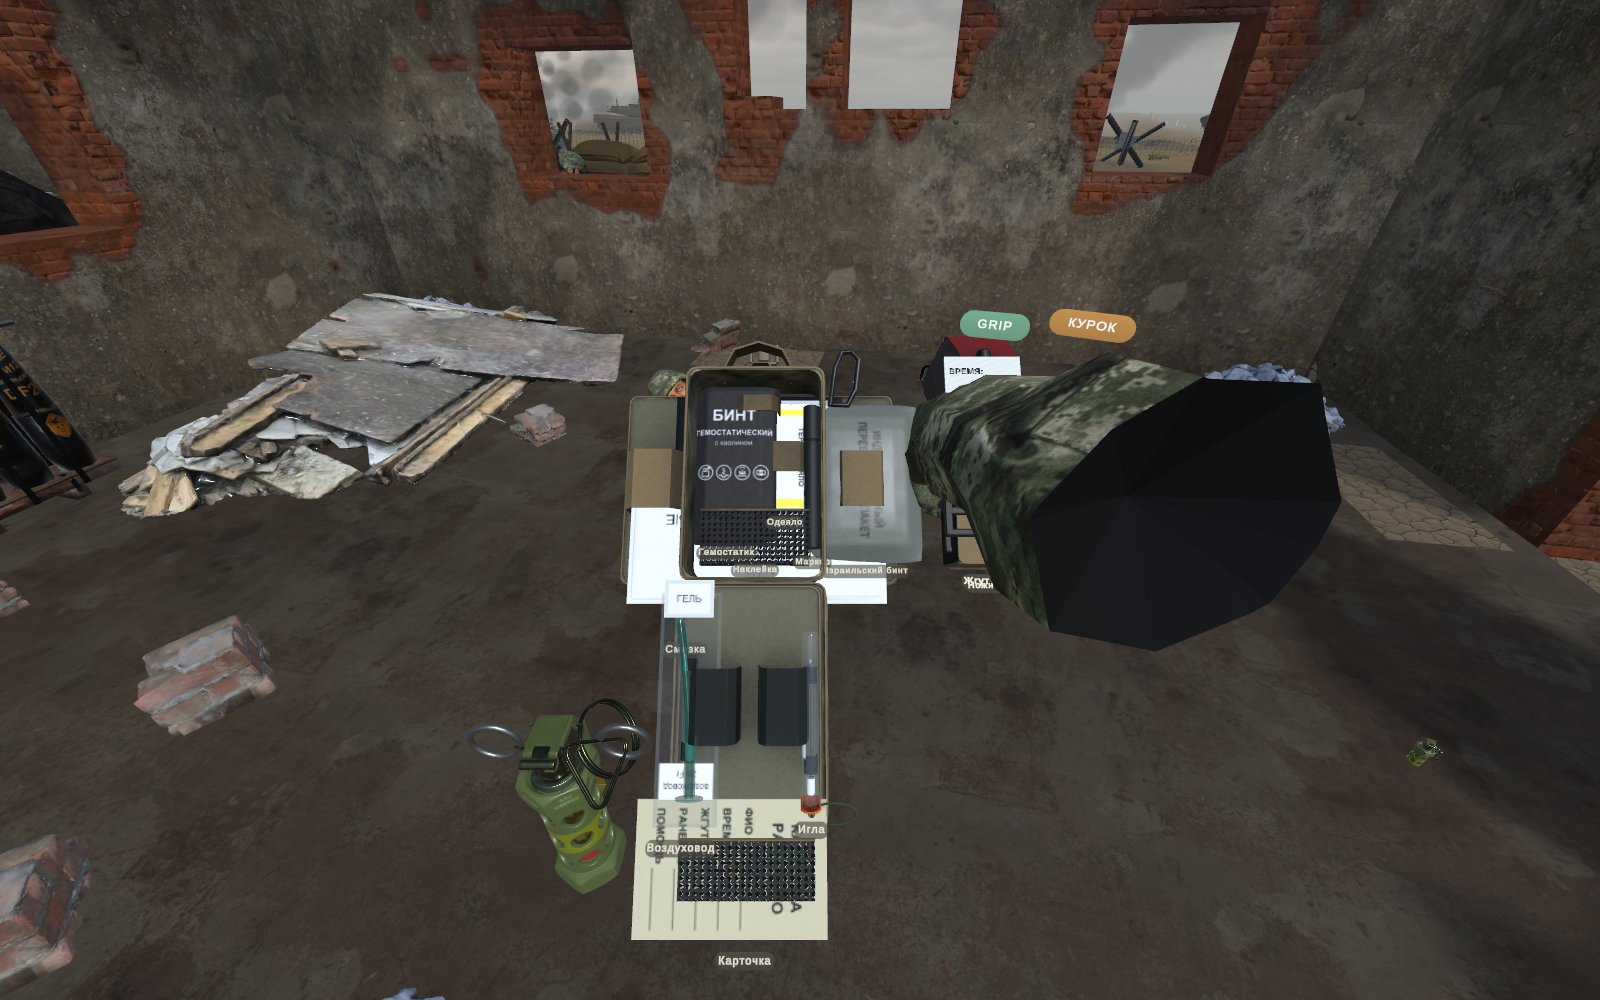
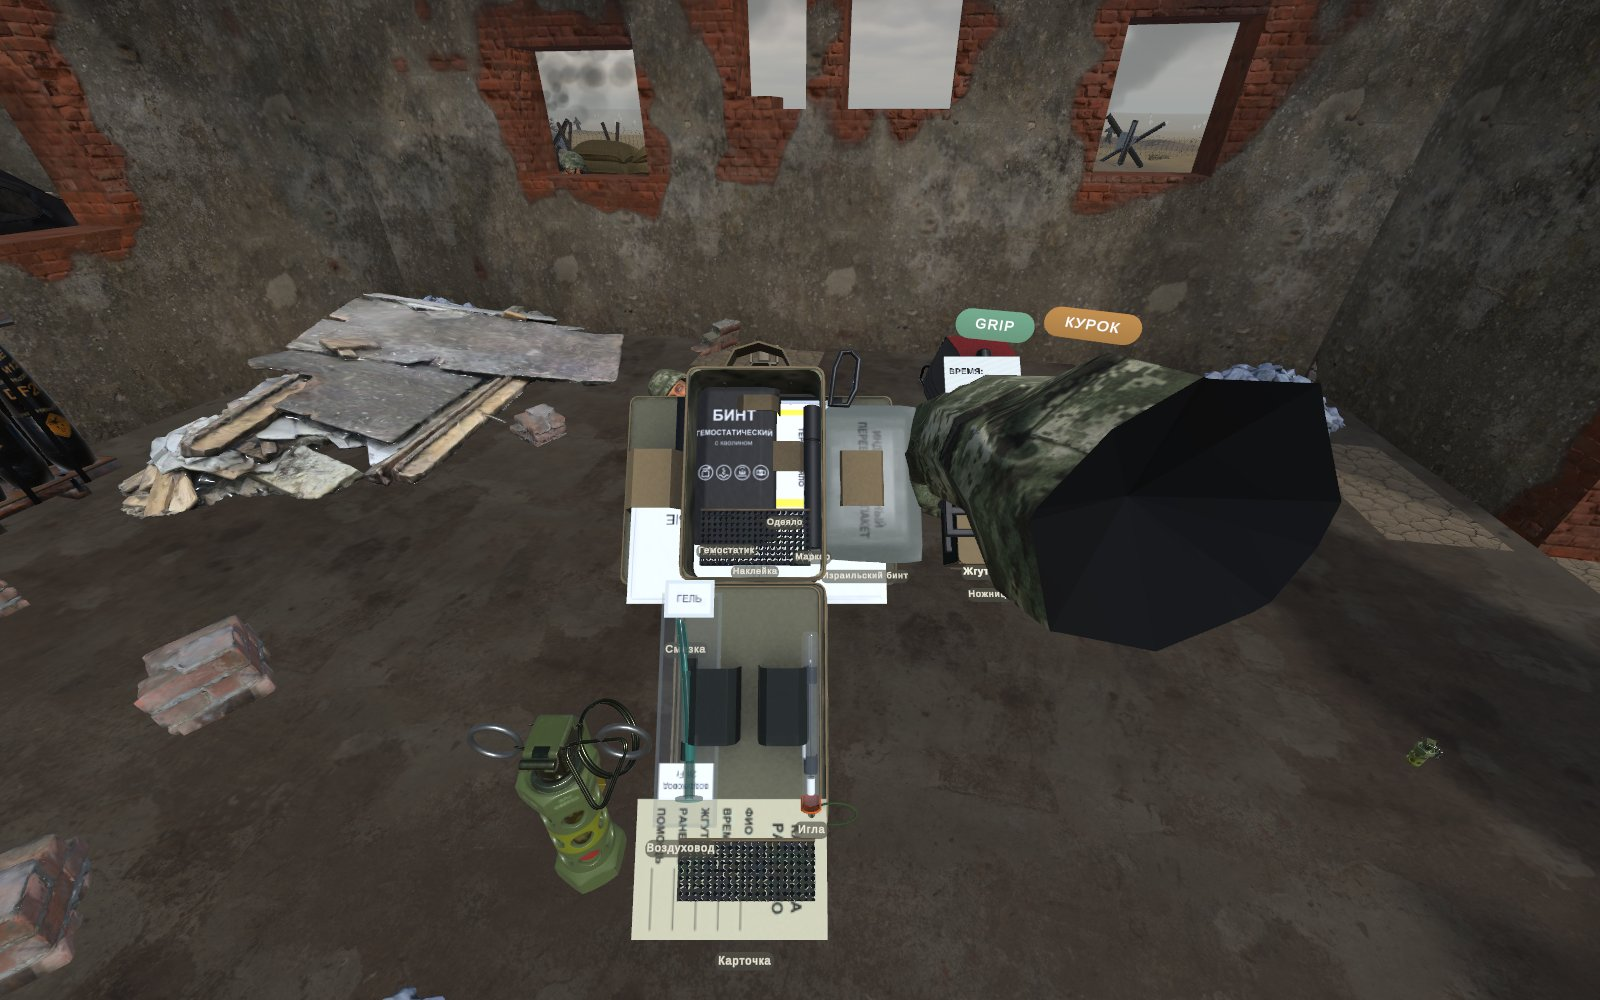
w10b: kit labels decluttered (no overlaps, one label for stacked tourniquets), final APK

diff --git a/Assets/Scripts/Runtime/Treatment/KitTray.cs b/Assets/Scripts/Runtime/Treatment/KitTray.cs
@@ -60,6 +60,8 @@ namespace FieldMedic.Treatment
         /// <summary>Item → its seat (the anchor it sits on in the open kit).</summary>
         public readonly Dictionary<MedItem, Transform> Cells = new Dictionary<MedItem, Transform>();
         readonly Dictionary<MedItem, TMPro.TextMeshPro> _labels = new Dictionary<MedItem, TMPro.TextMeshPro>();
+        // w10b: stacked items with the same label (CAT / Alpha / Esmarch in one pocket): one label until the first is taken
+        readonly Dictionary<MedItem, MedItem> _dupOf = new Dictionary<MedItem, MedItem>();
         readonly Dictionary<MedItem, MeshFilter> _plates = new Dictionary<MedItem, MeshFilter>();
         readonly Dictionary<MedItem, BoxCollider> _zones = new Dictionary<MedItem, BoxCollider>();
         const int QPlate = 2984, QText = 2986, QGlow = 2983;
@@ -244,6 +246,69 @@ namespace FieldMedic.Treatment
             _glow.localRotation = Quaternion.Euler(90f, 0f, 0f);
             _glow.gameObject.SetActive(false);
             RefreshTexts(true);
+            Declutter();
+        }
+
+        /// <summary>w10b: items in the real kit sit close together (CAT + shears in the side pouch) → their labels
+        /// overlapped. Push overlapping label plates apart in the panel plane (sized for the longer of RU/KZ).</summary>
+        void Declutter()
+        {
+            var items = new List<MedItem>();
+            var c = new List<Vector2>();
+            var half = new List<Vector2>();
+            _dupOf.Clear();
+            var firstByText = new List<MedItem>();
+            foreach (var kv in _labels)
+            {
+                if (kv.Key == null || kv.Value == null) continue;
+                string ru = Label(kv.Key.kind, false);
+                Vector3 lp = kv.Value.transform.localPosition;
+                MedItem twin = null;
+                foreach (var f in firstByText)
+                    if (Label(f.kind, false) == ru && Vector3.Distance(_labels[f].transform.localPosition, lp) < 0.12f) { twin = f; break; }
+                if (twin != null) _dupOf[kv.Key] = twin; else firstByText.Add(kv.Key);
+            }
+            foreach (var kv in _labels)
+            {
+                if (kv.Key == null || kv.Value == null || _dupOf.ContainsKey(kv.Key) || !_plates.TryGetValue(kv.Key, out var mf) || mf == null) continue;
+                int len = Mathf.Max(Label(kv.Key.kind, false).Length, Label(kv.Key.kind, true).Length);
+                var pp = mf.transform.parent.localPosition;
+                items.Add(kv.Key);
+                c.Add(new Vector2(pp.x, pp.z));
+                half.Add(new Vector2((len * LabelCap * 0.78f + 0.008f) * 0.5f + 0.002f, LabelCap * 1.05f + 0.002f));
+            }
+            var start = new List<Vector2>(c);
+            for (int iter = 0; iter < 60; iter++)
+            {
+                bool moved = false;
+                for (int i = 0; i < c.Count; i++)
+                    for (int j = i + 1; j < c.Count; j++)
+                    {
+                        Vector2 d = c[j] - c[i];
+                        float ox = half[i].x + half[j].x - Mathf.Abs(d.x), oz = half[i].y + half[j].y - Mathf.Abs(d.y);
+                        if (ox <= 0f || oz <= 0f) continue;
+                        moved = true;
+                        // move along the axis that needs less push (labels are wide: usually up/down)
+                        Vector2 push = oz <= ox ? new Vector2(0f, (d.y >= 0f ? 1f : -1f) * oz * 0.5f + (d.y >= 0f ? 0.0005f : -0.0005f))
+                                                : new Vector2((d.x >= 0f ? 1f : -1f) * ox * 0.5f + (d.x >= 0f ? 0.0005f : -0.0005f), 0f);
+                        c[i] -= push; c[j] += push;
+                    }
+                if (!moved) break;
+            }
+            for (int i = 0; i < items.Count; i++)
+            {
+                Vector2 delta = c[i] - start[i];
+                if (delta.sqrMagnitude < 1e-8f) continue;
+                var off = new Vector3(delta.x, 0f, delta.y);
+                _labels[items[i]].transform.localPosition += off;
+                _plates[items[i]].transform.parent.localPosition += off;
+            }
+            foreach (var kv in _dupOf)
+            {
+                _labels[kv.Key].transform.localPosition = _labels[kv.Value].transform.localPosition;
+                if (_plates.TryGetValue(kv.Key, out var a) && a != null && _plates.TryGetValue(kv.Value, out var b) && b != null)
+                    a.transform.parent.localPosition = b.transform.parent.localPosition;
+            }
         }
 
         void RefreshTexts(bool force)
@@ -421,7 +486,7 @@ namespace FieldMedic.Treatment
                 foreach (var kv in _labels)
                 {
                     if (kv.Key == null || kv.Value == null) continue;
-                    bool on = kv.Key.InPouch;
+                    bool on = kv.Key.InPouch && !(_dupOf.TryGetValue(kv.Key, out var twin) && twin != null && twin.InPouch);
                     if (kv.Value.gameObject.activeSelf != on) kv.Value.gameObject.SetActive(on);
                     if (_plates.TryGetValue(kv.Key, out var pl) && pl != null && pl.transform.parent.gameObject.activeSelf != on) pl.transform.parent.gameObject.SetActive(on);
                     kv.Value.color = kv.Key == wanted ? WantedColor : LabelColor;

diff --git a/docs/W10_AUDIT.md b/docs/W10_AUDIT.md
@@ -74,7 +74,7 @@
 - Регрессионные бот-тесты по умолчанию идут со строгими зонами (`StrictZonesSetUp`), чтобы проверять точную логику.
 - Руки солдата: срез рукава закрыт тёмной «крышкой» — вблизи камеры она заметна; если не понравится, `GloveHand.UseSoldierHands = false`
   возвращает старые перчатки.
-- Подписи предметов в раскрытой аптечке местами наезжают друг на друга (жгут/ножницы лежат рядом в боковом кармане).
+- Подписи в раскрытой аптечке разведены, чтобы не наезжали (исправлено в 04:40).
 - Логи игры владельца 21.10 (`logs/device/play_2110/`) — только предупреждения OpenXR, исключений нет; шлем ночью не подключён.
 
 ## Путь ввода на устройстве (раздел 1 задания)

diff --git a/docs/PROGRESS.md b/docs/PROGRESS.md
@@ -676,3 +676,5 @@ Input System XR-контроллер как второй источник; 2) а
 - 04:25: финальный APK (с исправлением «жгут на ближайшую ногу») 196 МБ, QuestSceneAudit OK, XR guard, libUnityOpenXR.so →
   `Desktop\FMVR_DEMO\FieldMedicVR_W10.apk`, установлен на шлем. Дальше: перенастроить ботов под тело солдата, прогон S1–S8+SA
   настоящим вводом (пункт 10), подписи в аптечке без наложений, смоук-тест на надетом шлеме.
+- 04:40: подписи в раскрытой аптечке разведены (без наложений, одинаковые подписи сложенных в один карман жгутов — одна),
+  Kit/W10Screens/W10InputDevice 17/17. Финальный APK 196 МБ → FMVR_DEMO\FieldMedicVR_W10.apk, установлен на шлем.
